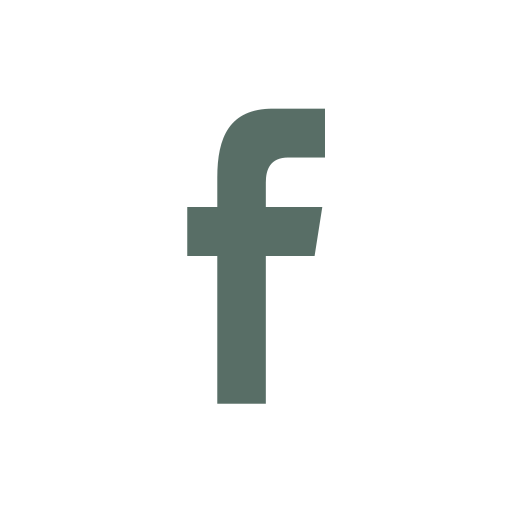
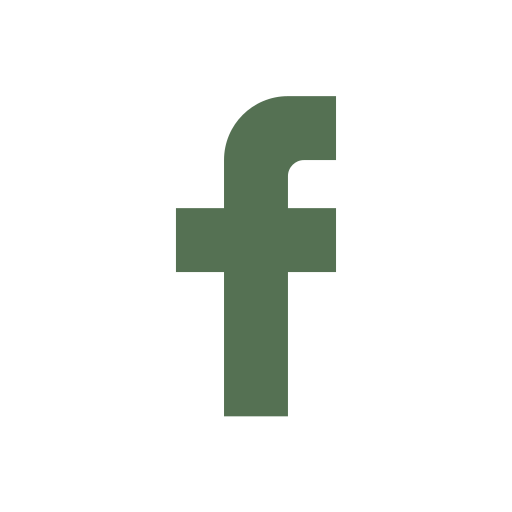
colores e iconos

diff --git a/src/Components/QuienesSomos/index.jsx b/src/Components/QuienesSomos/index.jsx
@@ -101,7 +101,7 @@ const DivAsociacion =styled.div`
     flex-direction: column;
     align-items: center;
     justify-content:center;
-    background-color: #fff;
+    background-color: #557153;
     width: 100%;
     height: auto;
     padding: 3rem 0 8rem 0;
@@ -117,11 +117,12 @@ const DivHumedal =styled.div`
     flex-direction: column;
     align-items: center;
     justify-content:center;
-    background-color: #557153;
+    background-color: #ffffff;
     width: 100%;
     height: auto;
     padding: 3rem 0 12rem 0;
     gap: 2rem;
+    box-shadow: 4px 4px 8px 5px rgba(0, 0, 0, 0.1);
     @media (max-width: 800px) {
         padding: 4rem 0 4rem 0;
         gap: 2.8rem;
@@ -367,26 +368,26 @@ const QuienesSomos = () => {
                 <DivAsociacion>
                     <Encabe>LA ASOCIACIÓN CIVIL CASA DEL NIÑO EN LA CALLE</Encabe>
                         <Box>
-                            <Parrafo2Bis>LA ASOCIACIÓN TRABAJA DESDE HACE MÁS DE 30 AÑOS PARA BRINDAR RESPUESTAS A LAS NECESIDADES DE NIÑOS Y FAMILIAS EN SITUACIÓN DE VULNERABILIDAD Y EXCLUSIÓN, PRIORIZANDO LA PROMOCIÓN Y PROTECCIÓN DE LOS DERECHOS DEL NIÑO. A LO LARGO DE SU TRAYECTORIA, HAN ATENDIDO A MÁS DE 1000 NIÑOS EN DIFERENTES MODALIDADES, COMO EL HOGAR CONVIVENCIAL, CASA DE LOS NIÑOS Y CENTRO DE DESARROLLO INFANTIL. MUCHOS DE LOS NIÑOS QUE FUERON ATENDIDOS POR LA ASOCIACIÓN CONTINÚAN TRABAJANDO EN EL LUGAR, DESEMPEÑÁNDOSE COMO EDUCADORES, CONSTRUCTORES, PERSONAL DE MANTENIMIENTO Y ATENCIÓN EN EL CENTRO DE RESCATE DE ANIMALES SILVESTRES.</Parrafo2Bis>
+                            <Parrafo2>LA ASOCIACIÓN TRABAJA DESDE HACE MÁS DE 30 AÑOS PARA BRINDAR RESPUESTAS A LAS NECESIDADES DE NIÑOS Y FAMILIAS EN SITUACIÓN DE VULNERABILIDAD Y EXCLUSIÓN, PRIORIZANDO LA PROMOCIÓN Y PROTECCIÓN DE LOS DERECHOS DEL NIÑO. A LO LARGO DE SU TRAYECTORIA, HAN ATENDIDO A MÁS DE 1000 NIÑOS EN DIFERENTES MODALIDADES, COMO EL HOGAR CONVIVENCIAL, CASA DE LOS NIÑOS Y CENTRO DE DESARROLLO INFANTIL. MUCHOS DE LOS NIÑOS QUE FUERON ATENDIDOS POR LA ASOCIACIÓN CONTINÚAN TRABAJANDO EN EL LUGAR, DESEMPEÑÁNDOSE COMO EDUCADORES, CONSTRUCTORES, PERSONAL DE MANTENIMIENTO Y ATENCIÓN EN EL CENTRO DE RESCATE DE ANIMALES SILVESTRES.</Parrafo2>
                             <Fotos src={foto8}/>
                             <Fotos2 src={foto8}/>
                         </Box>
                         <Box>
                             <Fotos src={foto1}/>
-                            <Parrafo2Bis>ADEMÁS DE SU FUNCIÓN AMBIENTAL, DESEMPEÑA UN PAPEL CRUCIAL COMO CENTRO DE DÍA PARA NIÑOS Y NIÑAS EN SITUACIONES DE VULNERABILIDAD BRINDANDO APOYO Y OPORTUNIDADES. A TRAVÉS DE PROGRAMAS EDUCATIVOS, TALLERES Y UNA ATENCIÓN INTEGRAL, SE BUSCA MEJORAR SU CALIDAD DE VIDA, PROMOVER SU DESARROLLO PERSONAL Y EMPODERARLOS PARA UN FUTURO MÁS EQUITATIVO. ADEMÁS, SE ENFOCA EN FORTALECER LOS LAZOS CON LOS CENTROS EDUCATIVOS Y PROPORCIONAR UN ENTORNO SEGURO Y ACOGEDOR.</Parrafo2Bis>
+                            <Parrafo2>ADEMÁS DE SU FUNCIÓN AMBIENTAL, DESEMPEÑA UN PAPEL CRUCIAL COMO CENTRO DE DÍA PARA NIÑOS Y NIÑAS EN SITUACIONES DE VULNERABILIDAD BRINDANDO APOYO Y OPORTUNIDADES. A TRAVÉS DE PROGRAMAS EDUCATIVOS, TALLERES Y UNA ATENCIÓN INTEGRAL, SE BUSCA MEJORAR SU CALIDAD DE VIDA, PROMOVER SU DESARROLLO PERSONAL Y EMPODERARLOS PARA UN FUTURO MÁS EQUITATIVO. ADEMÁS, SE ENFOCA EN FORTALECER LOS LAZOS CON LOS CENTROS EDUCATIVOS Y PROPORCIONAR UN ENTORNO SEGURO Y ACOGEDOR.</Parrafo2>
                             <Fotos2 src={foto1}/>
                         </Box>
                 </DivAsociacion>
                 <DivHumedal>
                     <Encabe>HUMEDAL - LOS COIPOS</Encabe>
                     <Box>
-                        <Parrafo2>LA ASOCIACIÓN VE LA OPORTUNIDAD DE CONTRIBUIR A LA CONSERVACIÓN Y PROTECCIÓN DEL HUMEDAL UBICADO EN EL KILÓMETRO 139 DE LA RUTA NACIONAL 226. SE LLEVA A CABO UNA INVESTIGACIÓN Y MONITOREO DE LA DIVERSIDAD DE ESPECIES PRESENTES, RESPETANDO LA CONSERVACIÓN DE LA BIODIVERSIDAD. SE HA CONSTRUIDO UN SENDERO AMBIENTAL PARA QUE LAS ESCUELAS DE LA REGIÓN CONOZCAN LA IMPORTANCIA Y PROBLEMÁTICAS DE ESTOS ESPACIOS NATURALES. MUCHAS ESPECIES DE FLORA Y FAUNA SILVESTRES DEPENDEN COMPLETAMENTE DE LOS HUMEDALES.</Parrafo2>
+                        <Parrafo2Bis>LA ASOCIACIÓN VE LA OPORTUNIDAD DE CONTRIBUIR A LA CONSERVACIÓN Y PROTECCIÓN DEL HUMEDAL UBICADO EN EL KILÓMETRO 139 DE LA RUTA NACIONAL 226. SE LLEVA A CABO UNA INVESTIGACIÓN Y MONITOREO DE LA DIVERSIDAD DE ESPECIES PRESENTES, RESPETANDO LA CONSERVACIÓN DE LA BIODIVERSIDAD. SE HA CONSTRUIDO UN SENDERO AMBIENTAL PARA QUE LAS ESCUELAS DE LA REGIÓN CONOZCAN LA IMPORTANCIA Y PROBLEMÁTICAS DE ESTOS ESPACIOS NATURALES. MUCHAS ESPECIES DE FLORA Y FAUNA SILVESTRES DEPENDEN COMPLETAMENTE DE LOS HUMEDALES.</Parrafo2Bis>
                         <Fotos src={foto6}/>
                         <Fotos2 src={foto6}/>
                     </Box>
                     <Box>
                         <Fotos src={foto2}/>
-                        <Parrafo2>TAMBIÉN SE IMPLEMENTA UN PROGRAMA SOCIOEDUCATIVO PARA LA FORMACIÓN Y DIVULGACIÓN SOBRE LA CONSERVACIÓN Y LA IMPORTANCIA DE ESTOS AMBIENTES, A TRAVÉS DE CHARLAS EN LAS ESCUELAS DE LA CIUDAD. LOS PROFESIONALES DE LA ASOCIACIÓN, CON SU EXPERIENCIA EN BIOLOGÍA, VETERINARIA, MANEJO DE FAUNA Y CONSERVACIÓN, ESTÁN COMPROMETIDOS EN DESPERTAR EL INTERÉS DE LOS ESTUDIANTES HACIA EL CUIDADO Y PROTECCIÓN DE LOS AMBIENTES NATURALES, TANTO DE LOS HUMEDALES, COMO DE LA FLORA Y FAUNA EN GENERAL, DE LA QUE SOMOS PARTÍCIPES.</Parrafo2>
+                        <Parrafo2Bis>TAMBIÉN SE IMPLEMENTA UN PROGRAMA SOCIOEDUCATIVO PARA LA FORMACIÓN Y DIVULGACIÓN SOBRE LA CONSERVACIÓN Y LA IMPORTANCIA DE ESTOS AMBIENTES, A TRAVÉS DE CHARLAS EN LAS ESCUELAS DE LA CIUDAD. LOS PROFESIONALES DE LA ASOCIACIÓN, CON SU EXPERIENCIA EN BIOLOGÍA, VETERINARIA, MANEJO DE FAUNA Y CONSERVACIÓN, ESTÁN COMPROMETIDOS EN DESPERTAR EL INTERÉS DE LOS ESTUDIANTES HACIA EL CUIDADO Y PROTECCIÓN DE LOS AMBIENTES NATURALES, TANTO DE LOS HUMEDALES, COMO DE LA FLORA Y FAUNA EN GENERAL, DE LA QUE SOMOS PARTÍCIPES.</Parrafo2Bis>
                         <Fotos2 src={foto2}/>
                     </Box>
                 </DivHumedal>

diff --git a/src/Components/Header/BarraNav/Index.jsx b/src/Components/Header/BarraNav/Index.jsx
@@ -7,8 +7,9 @@ const BoxBarraNav = styled.div`
     flex-direction: row;
     justify-content: space-between;
     align-items: center;
-    background-color: #ffffff;
+    background-color: #557153;
     width: 85%;
+    box-shadow: inset 2px 0px 1px rgba(0, 0, 0, 0.1);
 
     @media (max-width: 800px) {
         display: none;
@@ -75,13 +76,14 @@ const Boton = styled.button`
 const StyledLink = styled(Link)`
     text-decoration: none;
     font-family: 'Montserrat', sans-serif;
-    font-size: 1rem;
+    font-size: .9rem;
     font-weight: 600;
     letter-spacing: 0.05em;
-    color: #7D8F69;
+    color: #ffffff;
   &:hover {
     text-decoration: none;
-    color: #7D8F69;
+    color: #ffffff;
+    opacity: 90%;
   }
 
   @media (max-width: 800px) {

diff --git a/src/Components/Footer/index.jsx b/src/Components/Footer/index.jsx
@@ -12,7 +12,8 @@ const DivFooter = styled.div`
     flex-direction: column;
     width: 100%;
     padding: 4.5rem 0 2rem 0;
-    background-color: #586E66;
+    background-color: #557153;
+    box-shadow: inset 0px 2px 0px rgba(0, 0, 0, 0.1);
 
     @media (max-width: 800px) {
         padding-top: 3rem;
@@ -91,6 +92,7 @@ const Iconos = styled.div`
 
 const Redes = styled.img`
     width: 2rem;
+    border-radius: 50px;
     cursor: pointer;
     &:hover{
         transition: .3s;
